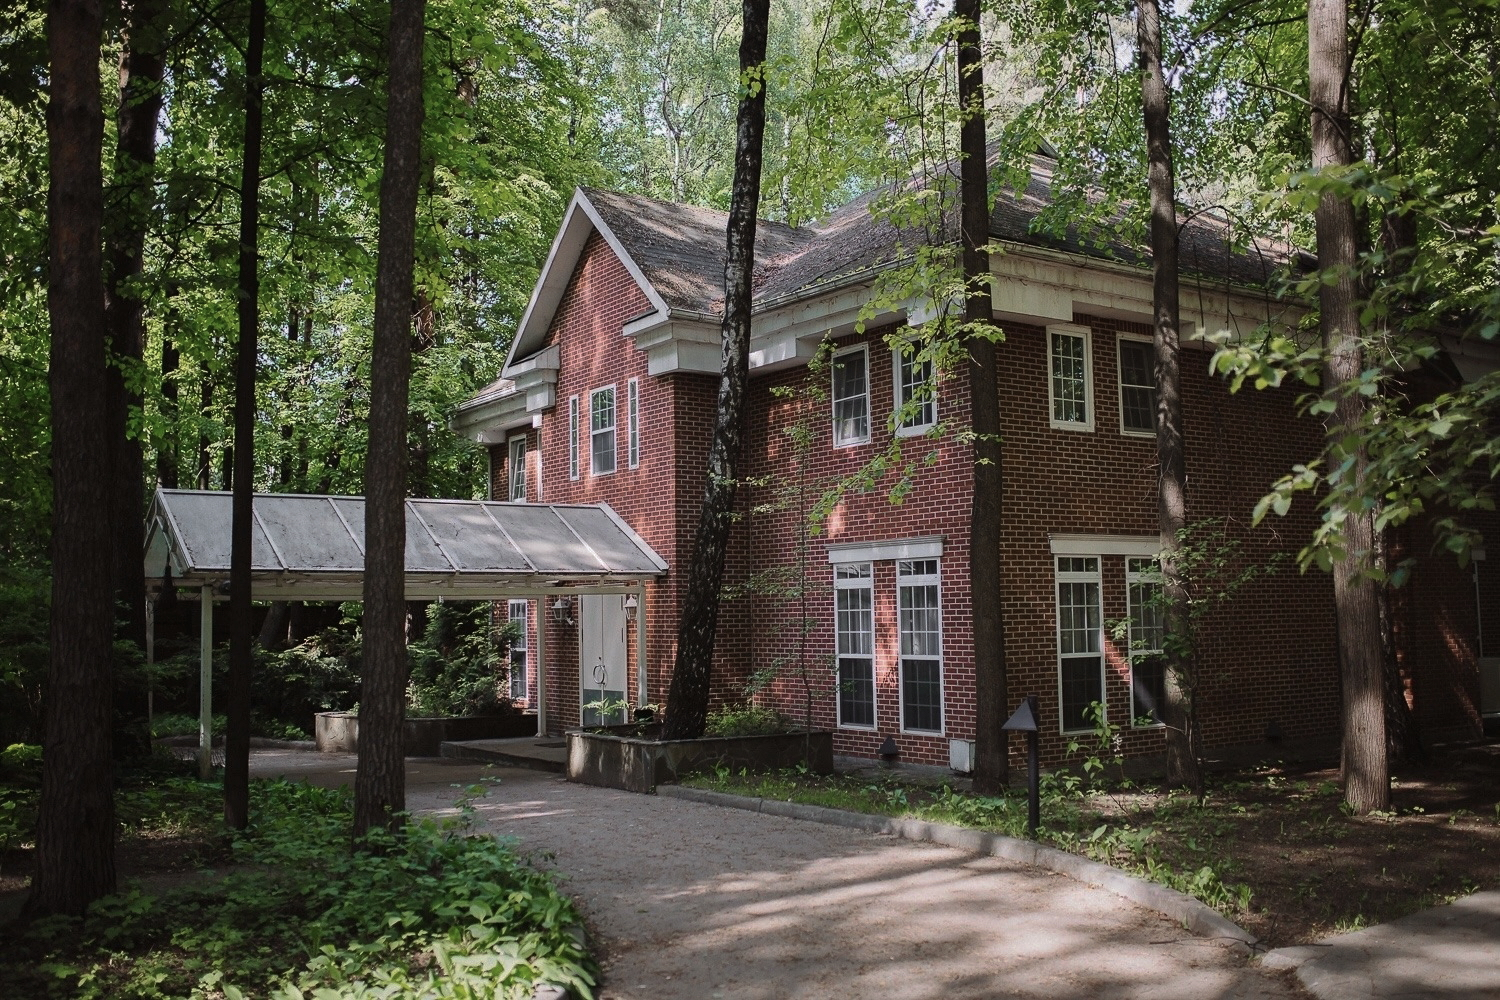
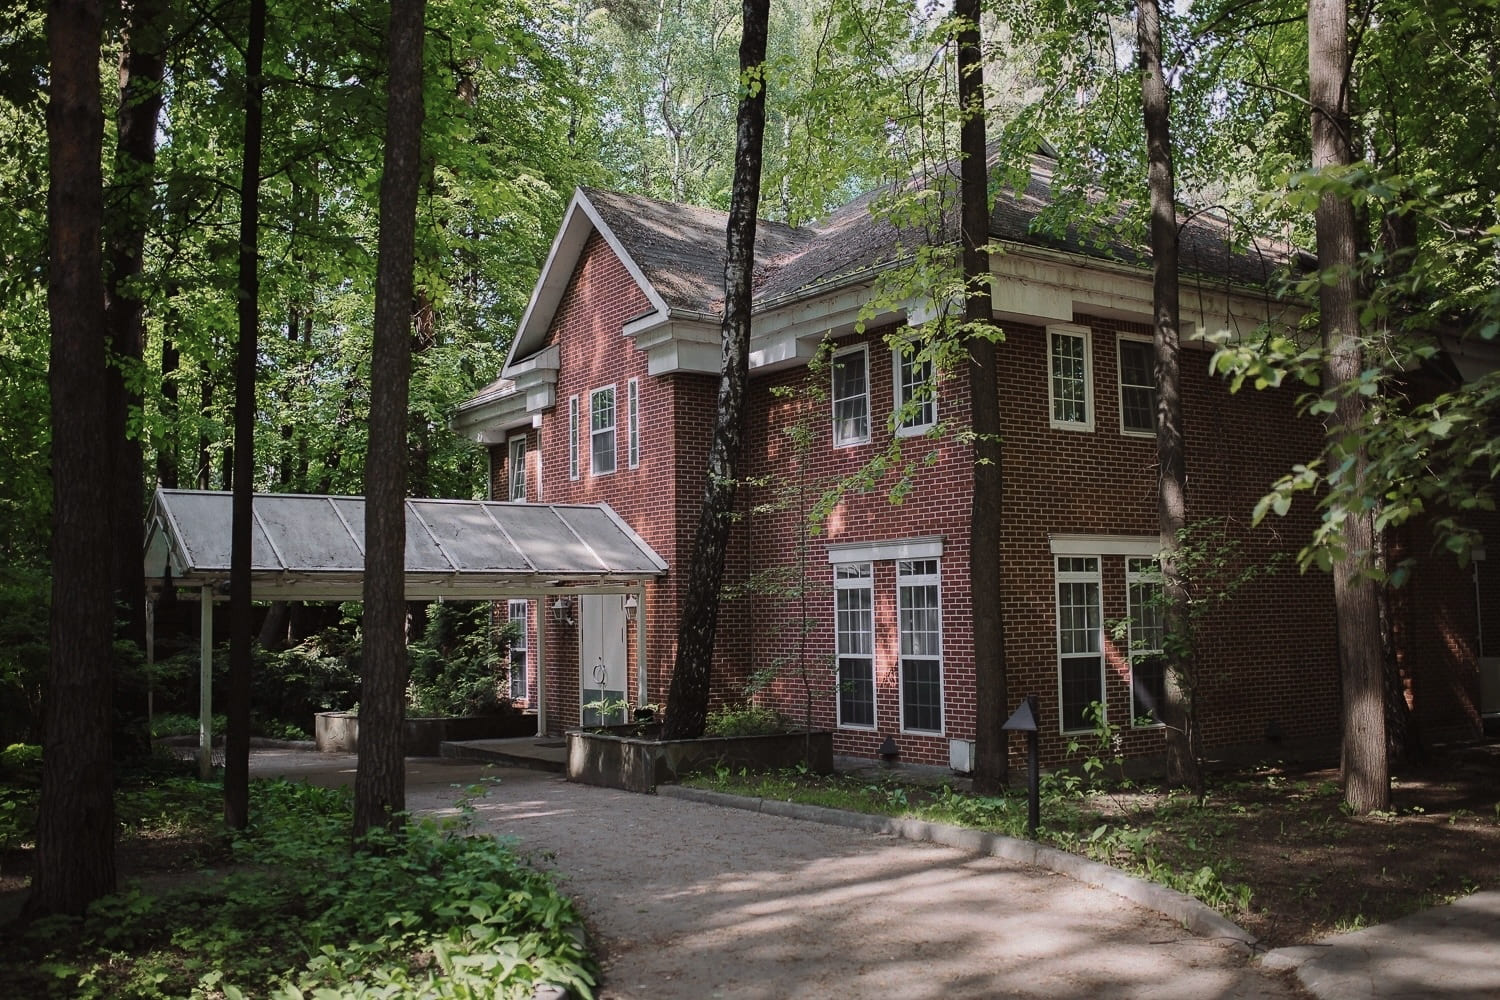
Enhance scroll animations and optimize page layout
- Added custom scroll animation directive
- Implemented scroll-based animations for various sections
- Optimized page layout and overflow handling
- Updated image assets with compressed versions
- Removed unnecessary image files
- Added global styles to prevent unwanted scrolling

diff --git a/src/App.vue b/src/App.vue
@@ -91,12 +91,12 @@ onUnmounted(() => {
 </script>
 
 <template>
-  <main>
+  <main class="main-container">
     <img src="@/assets/img/main-photo.jpg" alt="Максим & Виталина" />
     <section>
-      <h1>Максим & Виталина</h1>
-      <PageArrow />
-      <div class="flex flex-col items-center gap-2 pb-5">
+      <h1 v-scroll-animation>Максим & Виталина</h1>
+      <PageArrow v-scroll-animation="{ delay: 100 }" />
+      <div class="flex flex-col items-center gap-2 pb-5" v-scroll-animation="{ delay: 200 }">
         <p>В нашей жизни скоро состоится важное событие - наша свадьба!</p>
         <div class="flex items-center justify-end gap-2 text-lg">
           <div class="flex items-center">
@@ -123,14 +123,20 @@ onUnmounted(() => {
     </section>
     <section class="flex flex-col items-center">
       <div class="flex">
-        <div class="w-1/2 aspect-[3/4] overflow-hidden">
+        <div
+          class="w-1/2 aspect-[3/4] overflow-hidden"
+          v-scroll-animation="{ animation: 'fade-in-left' }"
+        >
           <img
             src="@/assets/img/photo-1.jpg"
             alt="Максим & Виталина"
             class="w-full h-full object-cover"
           />
         </div>
-        <div class="flex flex-col items-center justify-between gap-2 px-2 py-10 w-1/2">
+        <div
+          class="flex flex-col items-center justify-between gap-2 px-2 py-10 w-1/2"
+          v-scroll-animation="{ animation: 'fade-in-right', delay: 200 }"
+        >
           <div class="flex flex-col items-center gap-4">
             <h3 class="latin-text">Save the date</h3>
             <p class="text-lg italic">04.06.2025</p>
@@ -139,14 +145,16 @@ onUnmounted(() => {
           <p>В этот чудесный день когда мы станем семьей</p>
         </div>
       </div>
-      <p class="p-5">Мы приглашаем вас разделить с нами этот особенный день!</p>
+      <p class="p-5" v-scroll-animation>Мы приглашаем вас разделить с нами этот особенный день!</p>
     </section>
     <section>
       <div>
         <div class="p-2 pb-0">
           <div class="border-2 border-b-0 flex flex-col items-center gap-16 border-black">
-            <h2>Локация</h2>
-            <p>г. Москва, пос. Новобутаково, дом 44 стр. 1, «Английский дом и Веранда»</p>
+            <h2 v-scroll-animation>Локация</h2>
+            <p v-scroll-animation>
+              г. Москва, пос. Новобутаково, дом 44 стр. 1, «Английский дом и Веранда»
+            </p>
           </div>
         </div>
         <div class="flex items-start w-full">
@@ -170,7 +178,7 @@ onUnmounted(() => {
               </div>
             </div>
 
-            <p class="border-break bg-neutral-950 text-white text-2xl p-8 w-full text-center">
+            <p class="border-break bg-neutral-950 text-white !text-2xl p-8 w-full text-center">
               Сбор гостей в 16:00
             </p>
           </div>
@@ -178,10 +186,15 @@ onUnmounted(() => {
       </div>
     </section>
     <section>
-      <h2>Программа дня</h2>
-      <PageArrow />
+      <h2 v-scroll-animation>Программа дня</h2>
+      <PageArrow v-scroll-animation="{ delay: 100 }" />
       <div class="flex flex-col gap-8 pb-5">
-        <div v-for="item in program" :key="item.title" class="flex flex-col items-center gap-2">
+        <div
+          v-for="(item, index) in program"
+          :key="item.title"
+          class="flex flex-col items-center gap-2"
+          v-scroll-animation="{ delay: index * 200 }"
+        >
           <h4>{{ item.time }} - {{ item.title }}</h4>
           <p>{{ item.description }}</p>
         </div>
@@ -192,20 +205,24 @@ onUnmounted(() => {
         <div class="flex">
           <div
             class="vertical-text flex justify-between text-7xl px-0 py-3 uppercase tracking-wide latin-text"
+            v-scroll-animation="{ animation: 'fade-in-left' }"
           >
             <span v-for="letter in dressCodeTextLiterals" :key="letter" class="my-1">
               {{ letter === ' ' ? '\u00A0' : letter }}
             </span>
           </div>
-          <div class="w-full">
+          <div class="w-full" v-scroll-animation="{ animation: 'fade-in-right', delay: 200 }">
             <img src="@/assets/img/dresscode.jpg" alt="Dress code" class="object-fit" />
           </div>
         </div>
-        <p>
+        <p v-scroll-animation>
           Мы очень ждём и с трепетом готовимся к нашему празднику! Будем очень благодарны, если вы
           поддержите цветовую гамму нашей свадьбы.
         </p>
-        <div class="flex gap-1 justify-center w-full px-2">
+        <div
+          class="flex gap-1 justify-center w-full px-2"
+          v-scroll-animation="{ animation: 'zoom-in' }"
+        >
           <img src="@/assets/img/material.jpg" alt="Dress code" class="w-1/6 h-10" />
           <div class="bg-[#D9D9D9] w-1/6 h-10 shrink-0 grow" />
           <div class="bg-[#8F9095] w-1/6 h-10 shrink-0 grow" />
@@ -213,16 +230,21 @@ onUnmounted(() => {
           <div class="bg-[#000000] w-1/6 h-10 shrink-0 grow" />
         </div>
         <div class="flex flex-col gap-8">
-          <div v-for="item in dressCode" :key="item.title" class="flex flex-col items-center gap-2">
+          <div
+            v-for="(item, index) in dressCode"
+            :key="item.title"
+            class="flex flex-col items-center gap-2"
+            v-scroll-animation="{ delay: index * 200 }"
+          >
             <h4>{{ item.title }}</h4>
             <p>{{ item.description }}</p>
           </div>
         </div>
-        <PageArrow class="!pt-0" />
+        <PageArrow class="!pt-0" v-scroll-animation />
       </div>
     </section>
     <section>
-      <div class="flex flex-col items-center gap-4">
+      <div class="flex flex-col items-center gap-4" v-scroll-animation>
         <h2>Детали</h2>
         <p>
           Ваши улыбки и смех подарят нам незабываемое счастье в этот день, а пожелания в конвертах
@@ -233,17 +255,17 @@ onUnmounted(() => {
           свадебное путешествие.
         </p>
       </div>
-      <PageArrow />
+      <PageArrow v-scroll-animation="{ delay: 100 }" />
     </section>
   </main>
-  <footer class="flex flex-col items-center">
-    <div class="border-b border-gray-100 py-4 flex justify-center w-full">
+  <footer class="footer-container flex flex-col items-center">
+    <div class="border-b border-gray-100 py-4 flex justify-center w-full" v-scroll-animation>
       <p class="text-black/70 w-full text-center px-4">
         Будем очень признательны, если Вы сообщите нам о своем решении до
         <span class="text-black">04.04.2025</span>
       </p>
     </div>
-    <div class="inline-flex flex-col items-center py-4 w-full max-w-72 mx-auto">
+    <div class="inline-flex flex-col items-center py-4 w-full max-w-72 mx-auto" v-scroll-animation>
       <h4 class="text-center w-full mb-4">Анкета</h4>
       <form>
         <input
@@ -275,7 +297,12 @@ onUnmounted(() => {
       </div>
       <p>Узнайте, как связаться с нами другим способом</p>
       <div class="flex flex-col gap-2">
-        <div v-for="item in contactMethods" :key="item.name" class="flex flex-col gap-2">
+        <div
+          v-for="(item, index) in contactMethods"
+          :key="item.name[0]"
+          class="flex flex-col gap-2"
+          v-scroll-animation="{ delay: index * 200 }"
+        >
           <div class="flex items-center justify-between gap-2">
             <span>{{ item.name[0] }}</span> в телеграм
           </div>
@@ -287,3 +314,79 @@ onUnmounted(() => {
     </div>
   </footer>
 </template>
+
+<style>
+html,
+body {
+  margin: 0;
+  padding: 0;
+  width: 100%;
+  position: relative;
+  /* Предотвращаем горизонтальный скролл */
+  overflow-x: hidden;
+  /* Разрешаем только один вертикальный скролл */
+  overflow-y: auto;
+  height: 100%;
+}
+
+/* Специальные классы для основных контейнеров */
+.main-container,
+.footer-container {
+  width: 100%;
+  overflow: visible !important; /* Принудительно убираем скроллы */
+  position: relative;
+  box-sizing: border-box;
+  /* Убираем возможные отступы, которые могут создавать скроллы */
+  margin: 0;
+  padding: 0;
+}
+
+/* Предотвращаем скролл внутри основных контейнеров */
+main,
+footer {
+  width: 100%;
+  /* Полностью убираем скроллы для контейнеров */
+  overflow: visible !important; /* Принудительно убираем скроллы */
+  /* Убираем возможные свойства, которые могут создавать скроллы */
+  position: relative;
+  box-sizing: border-box;
+}
+
+/* Оптимизация для анимаций */
+[v-scroll-animation] {
+  /* Улучшаем производительность анимаций */
+  backface-visibility: hidden;
+  -webkit-backface-visibility: hidden;
+  /* Предотвращаем возможные проблемы с позиционированием */
+  transform-style: preserve-3d;
+  position: relative;
+  z-index: 1;
+}
+
+/* Дополнительные стили для предотвращения скроллов */
+section {
+  overflow: visible !important; /* Принудительно убираем скроллы */
+  position: relative;
+  width: 100%;
+  box-sizing: border-box;
+}
+
+/* Убираем возможные скроллы у контейнеров с overflow-hidden */
+.overflow-hidden {
+  overflow: hidden !important;
+}
+
+/* Исправляем проблемы с контейнерами, которые могут создавать скроллы */
+.flex,
+.flex-col,
+.items-center,
+.justify-center {
+  overflow: visible !important;
+}
+
+/* Исправляем проблемы с изображениями */
+img {
+  max-width: 100%;
+  height: auto;
+}
+</style>

diff --git a/src/directives/scrollAnimation.ts b/src/directives/scrollAnimation.ts
@@ -1,0 +1,112 @@
+import type { Directive, DirectiveBinding } from 'vue'
+
+interface ScrollAnimationOptions {
+  threshold?: number
+  rootMargin?: string
+  delay?: number
+  duration?: number
+  once?: boolean
+  animation?: string
+}
+
+// Расширяем HTMLElement для хранения observer
+interface HTMLElementWithObserver extends HTMLElement {
+  _scrollAnimation?: IntersectionObserver
+}
+
+const defaultOptions: ScrollAnimationOptions = {
+  threshold: 0.1,
+  rootMargin: '0px',
+  delay: 0,
+  duration: 800,
+  once: true,
+  animation: 'fade-in',
+}
+
+const scrollAnimation: Directive = {
+  mounted(el: HTMLElement, binding: DirectiveBinding) {
+    const options = { ...defaultOptions, ...(binding.value || {}) }
+
+    // Добавляем начальные стили без влияния на скролл
+    el.style.opacity = '0'
+    el.style.transition = `opacity ${options.duration}ms ease ${options.delay}ms, transform ${options.duration}ms ease ${options.delay}ms`
+
+    // Важно: не добавляем overflow: hidden, чтобы не создавать скроллы
+
+    // Используем transform вместо margin/padding для анимаций
+    if (options.animation === 'fade-in') {
+      el.style.transform = 'translateY(20px)'
+    } else if (options.animation === 'fade-in-left') {
+      el.style.transform = 'translateX(-20px)'
+    } else if (options.animation === 'fade-in-right') {
+      el.style.transform = 'translateX(20px)'
+    } else if (options.animation === 'zoom-in') {
+      el.style.transform = 'scale(0.95)'
+    }
+
+    // Используем will-change только во время анимации
+    // для оптимизации производительности
+    const observer = new IntersectionObserver(
+      (entries) => {
+        entries.forEach((entry) => {
+          if (entry.isIntersecting) {
+            // Добавляем will-change перед анимацией
+            el.style.willChange = 'opacity, transform'
+
+            setTimeout(() => {
+              el.style.opacity = '1'
+              el.style.transform = 'translate(0) scale(1)'
+
+              // Удаляем will-change после завершения анимации
+              setTimeout(() => {
+                el.style.willChange = 'auto'
+              }, options.duration)
+            }, 50)
+
+            if (options.once) {
+              observer.unobserve(el)
+            }
+          } else if (!options.once) {
+            el.style.opacity = '0'
+
+            if (options.animation === 'fade-in') {
+              el.style.transform = 'translateY(20px)'
+            } else if (options.animation === 'fade-in-left') {
+              el.style.transform = 'translateX(-20px)'
+            } else if (options.animation === 'fade-in-right') {
+              el.style.transform = 'translateX(20px)'
+            } else if (options.animation === 'zoom-in') {
+              el.style.transform = 'scale(0.95)'
+            }
+          }
+        })
+      },
+      {
+        threshold: options.threshold,
+        rootMargin: options.rootMargin,
+      },
+    )
+
+    observer.observe(el)
+
+    // Сохраняем observer для возможности очистки
+    const element = el as HTMLElementWithObserver
+    element._scrollAnimation = observer
+  },
+
+  unmounted(el: HTMLElement) {
+    // Очистка стилей при удалении элемента
+    el.style.willChange = 'auto'
+    el.style.transform = ''
+    el.style.opacity = ''
+    el.style.transition = ''
+
+    // Отключаем observer при удалении элемента
+    const element = el as HTMLElementWithObserver
+    if (element._scrollAnimation) {
+      element._scrollAnimation.disconnect()
+    }
+  },
+}
+
+export default scrollAnimation

diff --git a/src/main.ts b/src/main.ts
@@ -2,5 +2,8 @@ import './assets/main.css'
 
 import { createApp } from 'vue'
 import App from './App.vue'
+import directives from './directives'
 
-createApp(App).mount('#app')
+const app = createApp(App)
+app.use(directives)
+app.mount('#app')

diff --git a/src/directives/index.ts b/src/directives/index.ts
@@ -1,0 +1,10 @@
+import type { App } from 'vue'
+import scrollAnimation from './scrollAnimation'
+
+export default {
+  install(app: App) {
+    app.directive('scroll-animation', scrollAnimation)
+  },
+}
+
+export { scrollAnimation }
